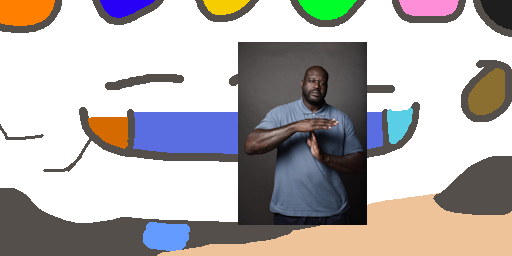
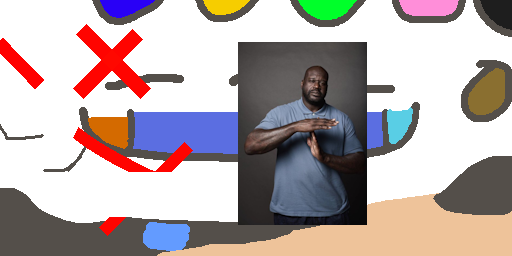
Greatly improve the player collision system

diff --git a/src/chaoscats/player/player_movement.cpp b/src/chaoscats/player/player_movement.cpp
@@ -2,25 +2,21 @@
 
 void Player::handleMovement()
 {
+    float speed = 6.0f;
+    // increase player speed when the sprint key is held
     if (sf::Keyboard::isKeyPressed(sf::Keyboard::LShift))
     {
-        playerSpeed = 16.0f;
-    }
-    else if (sf::Keyboard::isKeyPressed(sf::Keyboard::LControl))
-    {
-        playerSpeed = 0.1f;
+        speed = 16.0f;
     }
     else if (sf::Keyboard::isKeyPressed(sf::Keyboard::LAlt))
     {
-        playerSpeed = 40.0f;
-    }
-    else
-    {
-        playerSpeed = 6.0f;
+        speed = 40.0f;
     }
 
-    Particle groundParticle = world->getParticleFromWindowCoords(bottomCollisionPoint.x, bottomCollisionPoint.y + 1);
-    Particle bodyParticle = world->getParticleFromWindowCoords(bottomCollisionPoint.x, bottomCollisionPoint.y - 15);
+    // ground particle is the particle directly below the player's feet
+    // bodyParticle is the particle located near the center of the player's body
+    Particle groundParticle = world->getParticleFromWindowCoords(collisionSegment.p2.x, collisionSegment.p2.y + 1);
+    Particle bodyParticle = world->getParticleFromWindowCoords(collisionSegment.p2.x, collisionSegment.p2.y - 15);
 
     float damping = 1.0f;
 
@@ -33,7 +29,7 @@ void Player::handleMovement()
     break;
     case PlayerMovementDampingType::Solid:
     {
-        damping = 10.0f;
+        damping = 100.0f;
     }
     break;
     default:
@@ -52,14 +48,6 @@ void Player::handleMovement()
         }
     }
     break;
-    case PlayerCollisionType::Solid:
-    {
-        if (!jumped)
-        {
-            velocity.y = 0.0f;
-        }
-    }
-    break;
     default:
         break;
     }
@@ -67,7 +55,7 @@ void Player::handleMovement()
     bool bottomTouchingSubstance = false;
     for (int i = -5; i < 10; ++i)
     {
-        Particle groundTestParticle = world->getParticleFromWindowCoords(bottomCollisionPoint.x, bottomCollisionPoint.y + i);
+        Particle groundTestParticle = world->getParticleFromWindowCoords(collisionSegment.p2.x, collisionSegment.p2.y + i);
         if (groundTestParticle.playerCollisionType == PlayerCollisionType::Solid ||
             groundTestParticle.playerCollisionType == PlayerCollisionType::Liquid)
         {
@@ -80,11 +68,11 @@ void Player::handleMovement()
 
     if (sf::Keyboard::isKeyPressed(sf::Keyboard::A) && gameInfo.window.IS_FOCUSED)
     {
-        velocity.x = -playerSpeed / damping;
+        velocity.x = -speed / damping;
     }
     if (sf::Keyboard::isKeyPressed(sf::Keyboard::D) && gameInfo.window.IS_FOCUSED)
     {
-        velocity.x = playerSpeed / damping;
+        velocity.x = speed / damping;
     }
     if (sf::Keyboard::isKeyPressed(sf::Keyboard::Space) && gameInfo.window.IS_FOCUSED)
     {
@@ -113,9 +101,14 @@ void Player::setPosition(float x, float y)
 
     player_collisionBox.setPosition(position.x, position.y);
 
-    bottomCollisionPoint.x = player_collisionBox.getPosition().x;
-    bottomCollisionPoint.y = player_collisionBox.getPosition().y + player_collisionBox.half_size.y;
+    Vector<float> bottomCollisionPoint(
+        player_collisionBox.getPosition().x,
+        player_collisionBox.getPosition().y + player_collisionBox.half_size.y);
 
-    topCollisionPoint.x = player_collisionBox.getPosition().x;
-    topCollisionPoint.y = player_collisionBox.getPosition().y - player_collisionBox.half_size.y;
+    Vector<float> topCollisionPoint(
+        player_collisionBox.getPosition().x,
+        player_collisionBox.getPosition().y - player_collisionBox.half_size.y);
+
+    collisionSegment.p1 = topCollisionPoint;
+    collisionSegment.p2 = bottomCollisionPoint;
 }

diff --git a/src/chaoscats/math/collision/collision.cpp b/src/chaoscats/math/collision/collision.cpp
@@ -1,0 +1,78 @@
+#include "collision.hpp"
+
+#include <iostream>
+
+#include "../number.hpp"
+#include "../intersection.hpp"
+
+#include "../../world/collision_mesh/collision_mesh.hpp"
+
+void solveWorldCollision(
+    const Segment<float> &collisionSegment,
+    const EdgeData &edge,
+    const Rect<float> &collisionBox,
+    Vector<float> &position,
+    Vector<float> &velocity,
+    const float &dt)
+{
+    Segment<float> futureSegment(
+        collisionSegment.p1.x + velocity.x * dt,
+        collisionSegment.p1.y + velocity.y * dt,
+        collisionSegment.p2.x + velocity.x * dt,
+        collisionSegment.p2.y + velocity.y * dt);
+
+    Segment<float> futureSegmentTop(
+        collisionSegment.p1.x,
+        collisionSegment.p1.y,
+        futureSegment.p1.x,
+        futureSegment.p1.y);
+    Segment<float> futureSegmentBottom(
+        collisionSegment.p2.x,
+        collisionSegment.p2.y,
+        futureSegment.p2.x,
+        futureSegment.p2.y);
+
+    SS_IntersectData centerSegmentIntersect = segmentSegment(futureSegment, edge.segment);
+    SS_IntersectData topSegmentIntersect = segmentSegment(futureSegmentTop, edge.segment);
+    SS_IntersectData bottomSegmentIntersect = segmentSegment(futureSegmentBottom, edge.segment);
+
+    Vector<float> centerSegmentIntersectPoint = Vector<float>(centerSegmentIntersect.x, centerSegmentIntersect.y);
+
+    // handle flat ceilings
+    if (edge.slopeType == SlopeType::Horizontal &&
+        centerSegmentIntersect.uA < 0.5f &&
+        centerSegmentIntersect.intersected)
+    {
+        position.y = centerSegmentIntersectPoint.y + collisionBox.half_size.y;
+        velocity.y = 0;
+    }
+
+    // handle floors/sloped floors
+    if ((edge.slopeType == SlopeType::UpHill ||
+         edge.slopeType == SlopeType::DownHill ||
+         edge.slopeType == SlopeType::Horizontal) &&
+        centerSegmentIntersect.uA > 0.5f &&
+        centerSegmentIntersect.intersected)
+    {
+        position.y = centerSegmentIntersectPoint.y - collisionBox.half_size.y;
+        velocity.y = 0;
+    }
+
+    // handle sloped ceilings
+    if ((edge.slopeType == SlopeType::UpHill ||
+         edge.slopeType == SlopeType::DownHill) &&
+        centerSegmentIntersect.uA < 0.5f &&
+        centerSegmentIntersect.intersected)
+    {
+        velocity.x = 0;
+        velocity.y = velocity.y < 0.0f ? 0.0f : velocity.y;
+    }
+
+    // handle walls
+    if (edge.slopeType == SlopeType::Vertical &&
+        (topSegmentIntersect.intersected ||
+         bottomSegmentIntersect.intersected))
+    {
+        velocity.x = 0;
+    }
+}

diff --git a/src/chaoscats/player/player_render.cpp b/src/chaoscats/player/player_render.cpp
@@ -42,7 +42,7 @@ void Player::render(sf::RenderWindow &renderWindow, Camera *camera, const std::s
                 camera);
     //
 
-    // // draw hands
+    // draw hands
     std::pair<Vector<float>, Vector<float>> handPlacements = weapon->getHandPlacementPoints(position.x, position.y);
 
     drawTexture(renderWindow,
@@ -79,11 +79,10 @@ void Player::render(sf::RenderWindow &renderWindow, Camera *camera, const std::s
 
         // collision box
         drawRect(renderWindow, gameInfo.window, player_collisionBox, camera, sf::Color(0, 255, 0, 255), DrawMode::Outline);
-        drawPoint(renderWindow, gameInfo.window, bottomCollisionPoint, camera, sf::Color(255, 0, 0, 255));
-        drawPoint(renderWindow, gameInfo.window, topCollisionPoint, camera, sf::Color(255, 0, 0, 255));
+        drawPoint(renderWindow, gameInfo.window, collisionSegment.p1, camera, sf::Color(255, 0, 0, 255));
+        drawPoint(renderWindow, gameInfo.window, collisionSegment.p2, camera, sf::Color(255, 0, 0, 255));
+        drawSegment(renderWindow, gameInfo.window, collisionSegment, camera, sf::Color(255, 0, 0, 255));
         //
-
-        drawPoint(renderWindow, gameInfo.window, Vector<float>(player_collisionBox.getPosition().x, player_collisionBox.getPosition().y), camera, sf::Color(0, 255, 0, 255));
 
         // dynamic hit box
         for (DamageModelEdgeData dmed : damageModel.head->getDamageHitbox())
@@ -98,5 +97,5 @@ void Player::render(sf::RenderWindow &renderWindow, Camera *camera, const std::s
         //
     }
 
-    drawText(renderWindow, gameInfo.window, name, gameAssets.fonts.ALAGARD_FONT, sf::Vector2f(topCollisionPoint.x - head_hitbox.half_size.x, topCollisionPoint.y - 30), 10, camera, sf::Color(100, 255, 0, 255));
+    drawText(renderWindow, gameInfo.window, name, gameAssets.fonts.ALAGARD_FONT, sf::Vector2f(collisionSegment.p1.x - head_hitbox.half_size.x, collisionSegment.p1.y - 30), 10, camera, sf::Color(100, 255, 0, 255));
 }

diff --git a/src/chaoscats/player/player.hpp b/src/chaoscats/player/player.hpp
@@ -4,17 +4,16 @@
 
 #include <SFML/Graphics.hpp>
 
-#include "../weapons/weapons/shotgun.hpp"
-
 #include "../world/world.hpp"
-#include "../math/intersection.hpp"
-
-#include "../math/geometry/geometry_common.hpp"
+#include "../camera/camera.hpp"
 #include "../rendering/draw.hpp"
 
 #include "damage_model/damage_model.hpp"
 
-#include "../camera/camera.hpp"
+#include "../weapons/weapons/shotgun.hpp"
+
+#include "../math/intersection.hpp"
+#include "../math/geometry/geometry_common.hpp"
 
 class Player
 {
@@ -35,7 +34,7 @@ public:
     void handleCollision();
 
     // this function only runs for the local player (client-side)
-    void clientUpdate(Camera &camera);
+    void clientUpdate(Camera camera);
 
     // this function only runs for server replicated clients
     void replicatedClientUpdate();
@@ -130,16 +129,10 @@ protected:
 
     Rect<float> player_collisionBox;
 
-    Vector<float> bottomCollisionPoint;
-    Vector<float> topCollisionPoint;
+    Segment<float> collisionSegment;
 
     bool renderHitboxes = true;
 
     int scale = 3;
-    float playerSpeed = 6.0f;
     bool jumped = false;
-
-private:
-    bool handleBottomCollision(Vector<float> &position, Vector<float> &velocity, Rect<float> collisionBox, EdgeData edge, Vector<float> bottom, float dt);
-    bool handleTopCollision(Vector<float> &position, Vector<float> &velocity, Rect<float> collisionBox, EdgeData edge, Vector<float> top, float dt);
 };

diff --git a/src/chaoscats/player/player_collision.cpp b/src/chaoscats/player/player_collision.cpp
@@ -1,23 +1,15 @@
 #include "player.hpp"
 
+#include "../math/collision/collision.hpp"
+
 void Player::handleCollision()
 {
     std::vector<EdgeData> collisionMesh = world->getCollisionMesh();
-    bool collisionHappened = false;
     for (EdgeData edge : collisionMesh)
     {
-        bool bottomCollision = handleBottomCollision(position, velocity, player_collisionBox, edge, bottomCollisionPoint, gameInfo.time.DELTA_TIME);
-        bool topCollision = handleTopCollision(position, velocity, player_collisionBox, edge, topCollisionPoint, gameInfo.time.DELTA_TIME);
-
-        if (bottomCollision || topCollision)
-        {
-            collisionHappened = true;
-        }
+        solveWorldCollision(collisionSegment, edge, player_collisionBox, position, velocity, gameInfo.time.DELTA_TIME);
     }
 
-    if (!collisionHappened)
-    {
-        position.x += velocity.x * gameInfo.time.DELTA_TIME;
-        position.y += velocity.y * gameInfo.time.DELTA_TIME;
-    }
+    position.x += velocity.x * gameInfo.time.DELTA_TIME;
+    position.y += velocity.y * gameInfo.time.DELTA_TIME;
 }

diff --git a/src/chaoscats/math/intersection.hpp b/src/chaoscats/math/intersection.hpp
@@ -39,3 +39,20 @@ inline SS_IntersectData segmentSegment(Segment<float> a, Segment<float> b)
 
     return intersect_data;
 }
+
+// point in poly detection
+// from: https://stackoverflow.com/a/218081
+inline bool pointInPoly(Vector<float> point, std::vector<Segment<float>> &poly, Vector<float> origin)
+{
+    int intersects = 0;
+    const Segment<float> testSegment(origin, point);
+    for (const Segment<float> &segment : poly)
+    {
+        if (segmentSegment(segment, testSegment).intersected)
+        {
+            ++intersects;
+        }
+    }
+
+    return intersects % 2 == 1;
+}

diff --git a/src/chaoscats/net/game_server/events/player_connect.cpp b/src/chaoscats/net/game_server/events/player_connect.cpp
@@ -74,7 +74,7 @@ void GameServer::player_connect_handleRegister(std::shared_ptr<net::Connection<G
     // the client sends a request to the server, and the server will allow the client to display the newly created client
     net::Message<GameMessages> addNewPlayerPacket;
     addNewPlayerPacket.header.id = GameMessages::Server2C_AddPlayer;
-    addNewPlayerPacket << Vector<float>(0, 0) << clientId;
+    addNewPlayerPacket << Vector<float>(50, 50) << clientId;
     sendMessageToAllClients(addNewPlayerPacket);
 
     // display all already connected clients to the newly connected client

diff --git a/src/chaoscats/scene/lobby/arena.cpp b/src/chaoscats/scene/lobby/arena.cpp
@@ -152,7 +152,7 @@ CurrentScene Scene_LobbyArena::run()
         }
 
         camera.update(gameInfo.time.DELTA_TIME);
-        // camera.focus_positions(positions, gameInfo.window);
+        camera.focus_positions(positions, gameInfo.window);
 
         std::string positionInfo = "PX: " +
                                    std::to_string(camera.getX()) +

diff --git a/src/chaoscats/math/collision/collision.hpp b/src/chaoscats/math/collision/collision.hpp
@@ -1,0 +1,12 @@
+#pragma once
+
+#include "../geometry/geometry_common.hpp"
+#include "../../world/collision_mesh/collision_mesh.hpp"
+
+void solveWorldCollision(
+    const Segment<float> &collisionSegment,
+    const EdgeData &edge,
+    const Rect<float> &collisionBox,
+    Vector<float> &position,
+    Vector<float> &velocity,
+    const float &dt);

diff --git a/src/chaoscats/rendering/point.cpp b/src/chaoscats/rendering/point.cpp
@@ -12,6 +12,7 @@ void drawPoint(
 
     sf::CircleShape circleShape(transformedSprite.second.x);
 
+    circleShape.setPointCount(10);
     circleShape.setOrigin(transformedSprite.second.x / 2.0f, transformedSprite.second.x / 2.0f);
     circleShape.setPosition(transformedSprite.first.x, transformedSprite.first.y);
     circleShape.setFillColor(color);

diff --git a/src/chaoscats/scene/lobby/events/server_world.cpp b/src/chaoscats/scene/lobby/events/server_world.cpp
@@ -15,8 +15,6 @@ void Scene_LobbyArena::server_world_handleSyncWorldStart(net::Message<GameMessag
 
     world = new World(worldSize.x, worldSize.y, pixelSize);
     world->set_s2c_buffer_count(operations);
-
-    std::cout << worldSize.x << " " << worldSize.y << " " << pixelSize << std::endl;
 }
 
 // Server2C_SyncWorldChunk

diff --git a/src/chaoscats/player/player.cpp b/src/chaoscats/player/player.cpp
@@ -41,6 +41,9 @@ Player::Player(const World *world, GameInfo &gameInfo, GameAssets &gameAssets) :
 }
 Player::~Player()
 {
-    delete weapon;
-    weapon = nullptr;
+    if (weapon != nullptr)
+    {
+        delete weapon;
+        weapon = nullptr;
+    }
 }
